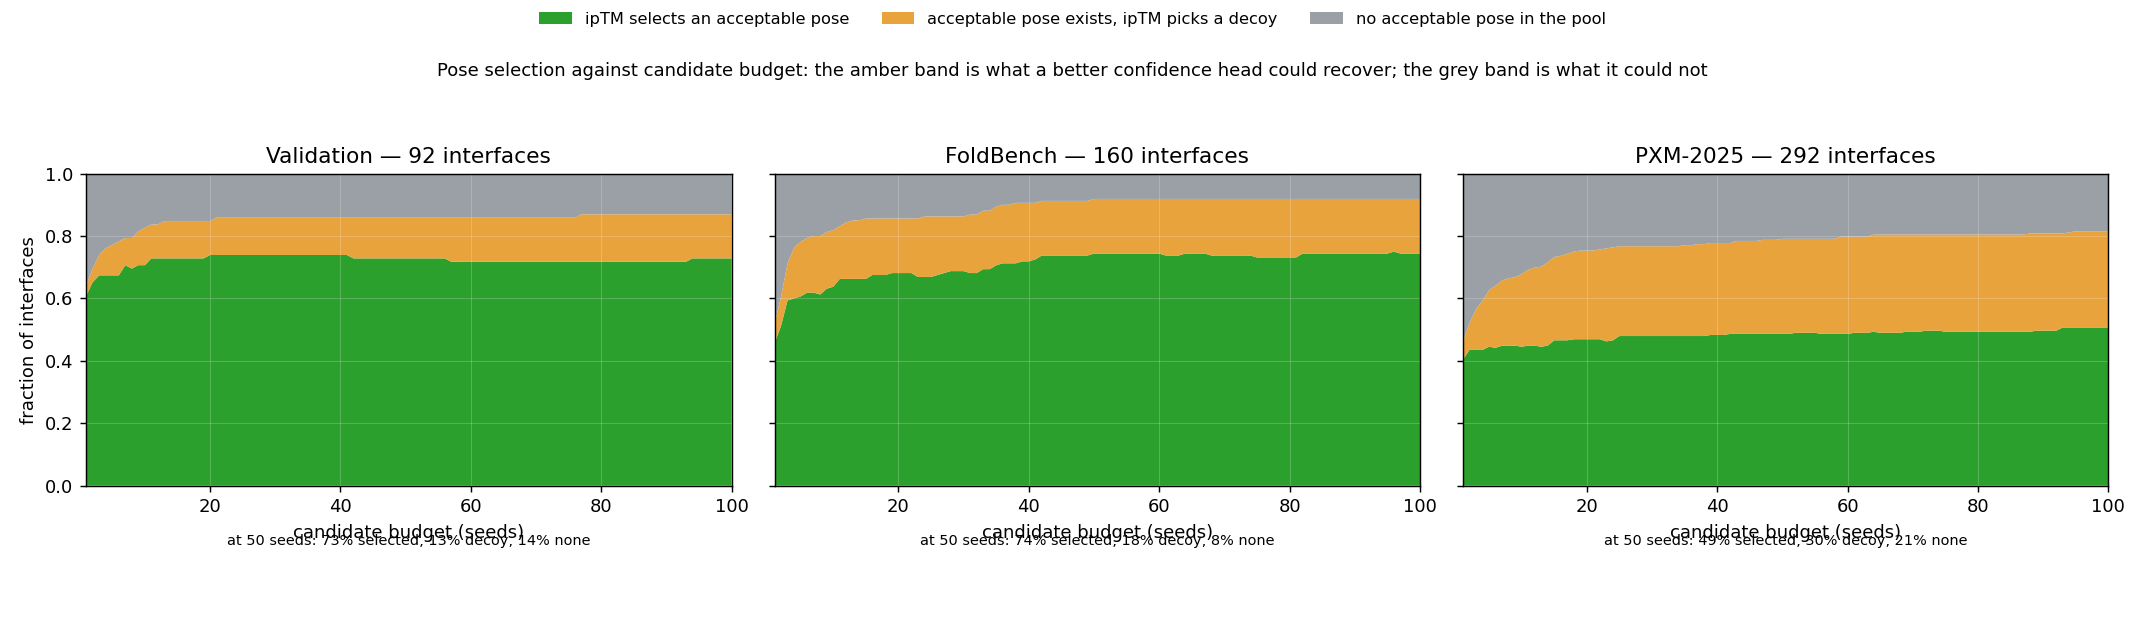
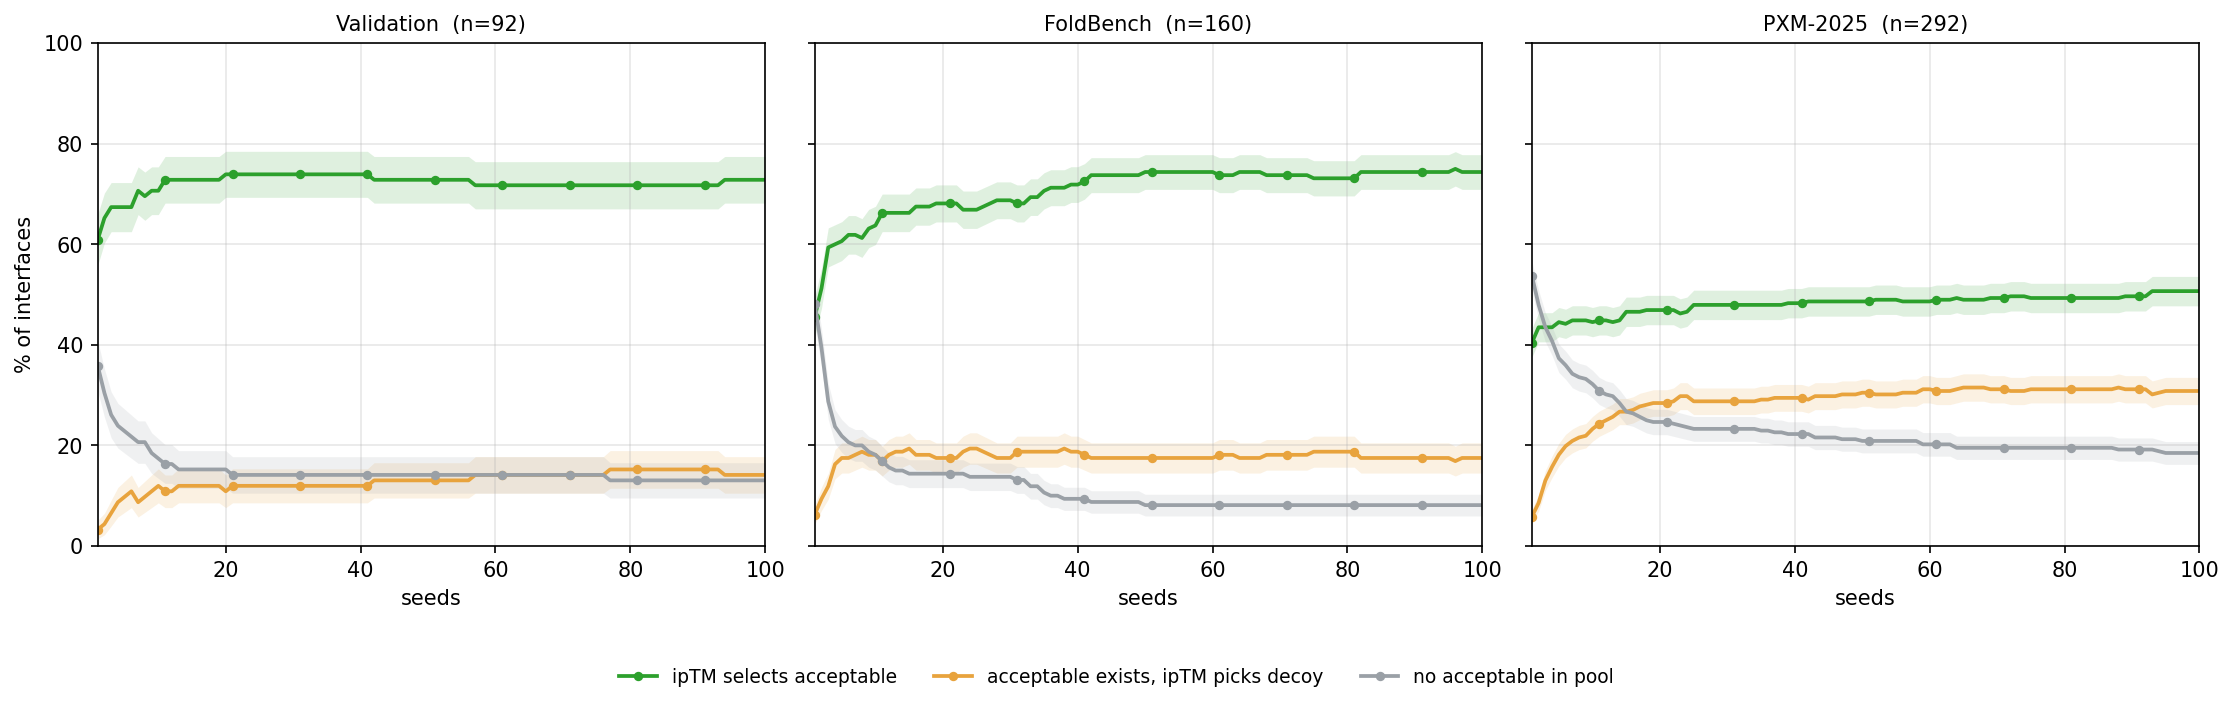
figures: three SEM-banded lines in the house style, not a stacked area
Redrawn to match archive/plot/plot_scaling_compare.py: "-o" lines, fill_between
at alpha 0.15, grid at alpha 0.3, percentages on the y axis, dpi 150 with
bbox_inches tight. The x axis says "seeds". One figure-level legend below the row
replaces three in-axes legends plus the per-panel annotation that was overlapping
the data, and there is no suptitle. The script now also prints the table, because
a figure is read off axes and a table is read exactly.

The band is the SEM of a proportion, sqrt(p(1-p)/n) over the interface count --
the uncertainty of a fraction of interfaces, not a spread over seeds. n is fixed
across the axis by construction, so a band narrows only as p approaches 0 or 1.

WHAT THE NUMBERS SAY, now that they are legible. At 50 seeds, % of interfaces:

  Validation  n=92   72.8+/-4.6 selected  13.0+/-3.5 decoy  14.1+/-3.6 none
  FoldBench   n=160  74.4+/-3.5 selected  17.5+/-3.0 decoy   8.1+/-2.2 none
  PXM-2025    n=292  48.6+/-2.9 selected  30.5+/-2.7 decoy  20.9+/-2.4 none

PXM-2025 carries 2.3x the recoverable headroom of the validation split and the
difference dwarfs either SEM, so a method tuned and judged only on validation is
measured where there is least to win.

And the finding the stacked area hid: THE SELECTED CURVE IS NOT MONOTONIC IN N
WHILE THE ORACLE IS. Validation runs 73.9 at N=25, 72.8 at 50, 71.7 at 75, 72.8
at 100; FoldBench 66.9 -> 74.4 -> 73.1 -> 74.4. Adding seeds can LOWER the
[…]

diff --git a/figures/selection_vs_budget.py b/figures/selection_vs_budget.py
@@ -52,8 +52,18 @@ BENCH = [
 # acceptable / decoy / no-acceptable. Green for what works, amber for what a better head could
 # recover, grey for what it could not.
 COLORS = ["#2ca02c", "#e8a33d", "#9aa0a6"]
-LABELS = ["ipTM selects an acceptable pose", "acceptable pose exists, ipTM picks a decoy",
-          "no acceptable pose in the pool"]
+LABELS = ["ipTM selects acceptable", "acceptable exists, ipTM picks decoy", "no acceptable in pool"]
+
+
+def sem(p, n):
+    """Standard error of a proportion over n interfaces: sqrt(p(1-p)/n).
+
+    The quantity on each curve is a fraction of interfaces, so its uncertainty is binomial in the
+    interface count -- not a spread over seeds. n is fixed across the axis by construction (only
+    interfaces reaching --max-budget are counted), so the band narrows only where p approaches 0
+    or 1, which is the honest behaviour: a category at 5% is better determined than one at 50%.
+    """
+    return (p * (1.0 - p) / n) ** 0.5 if n else 0.0
 
 
 def curves(path, ic, sc, smc, dc, qc, max_budget):
@@ -120,37 +130,57 @@ def main():
     ap.add_argument("--out", default="figures/selection_vs_budget.png")
     a = ap.parse_args()
 
-    fig, axes = plt.subplots(1, 3, figsize=(16.5, 4.8), sharey=True)
-    for ax, (name, rel, ic, sc, smc, dc, qc) in zip(axes, BENCH):
+    series = []
+    for name, rel, ic, sc, smc, dc, qc in BENCH:
         path = os.path.join(a.root, rel)
         if not os.path.exists(path):
-            ax.set_title(f"{name}\n(table absent)")
+            print(f"{name}: {path} absent, skipped")
             continue
-        n_if, xs, acc, dec, non = curves(path, ic, sc, smc, dc, qc, a.max_budget)
-        ax.stackplot(xs, acc, dec, non, colors=COLORS, labels=LABELS, edgecolor="none")
-        ax.set_title(f"{name} — {n_if} interfaces")
-        ax.set_xlabel("candidate budget (seeds)")
+        series.append((name,) + curves(path, ic, sc, smc, dc, qc, a.max_budget))
+
+    # The numbers, printed as well as drawn -- a figure is read off axes, a table is read exactly.
+    for name, n_if, xs, acc, dec, non in series:
+        print(f"\n{name}: {n_if} interfaces   (value % +/- SEM)")
+        print(f"{'N':>4}  {'acceptable':>16} {'decoy':>16} {'none':>16}   {'oracle':>7}")
+        for n in (1, 5, 10, 25, 50, 75, 100):
+            if n > len(xs):
+                continue
+            i = n - 1
+            print(f"{n:>4}  {acc[i]*100:>8.1f}+/-{sem(acc[i], n_if)*100:<5.1f} "
+                  f"{dec[i]*100:>8.1f}+/-{sem(dec[i], n_if)*100:<5.1f} "
+                  f"{non[i]*100:>8.1f}+/-{sem(non[i], n_if)*100:<5.1f}   "
+                  f"{(acc[i]+dec[i])*100:>6.1f}")
+
+    fig, axes = plt.subplots(1, 3, figsize=(15, 4.6), sharey=True)
+
+    def band(ax, xs, ys, n_if, color):
+        lo = [(y - sem(y, n_if)) * 100 for y in ys]
+        hi = [(y + sem(y, n_if)) * 100 for y in ys]
+        ax.fill_between(xs, lo, hi, color=color, alpha=0.15, linewidth=0)
+
+    for ax, (name, n_if, xs, acc, dec, non) in zip(axes, series):
+        for ys, c, lbl in zip((acc, dec, non), COLORS, LABELS):
+            # MARKERS EVERY 10 SEEDS, not on all 100: a marker per point turns a 100-wide axis
+            # into a solid band and hides the line it is meant to mark.
+            ax.plot(xs, [y * 100 for y in ys], "-o", color=c, label=lbl, lw=1.8, ms=3.5,
+                    markevery=10)
+            band(ax, xs, ys, n_if, c)
+        ax.set_title(f"{name}  (n={n_if})", fontsize=10)
+        ax.set_xlabel("seeds")
         ax.set_xlim(1, a.max_budget)
-        ax.set_ylim(0, 1)
-        ax.grid(alpha=0.2, color="white", lw=0.6)
-        # THE TWO NUMBERS WORTH READING OFF: the selection headroom at the free budget, and what
-        # is unreachable by selection at all.
-        i50 = min(len(xs), 50) - 1
-        ax.annotate(f"at 50 seeds: {acc[i50]*100:.0f}% selected, {dec[i50]*100:.0f}% decoy, "
-                    f"{non[i50]*100:.0f}% none",
-                    xy=(0.5, -0.19), xycoords="axes fraction", ha="center", fontsize=8)
-    axes[0].set_ylabel("fraction of interfaces")
+        ax.set_ylim(0, 100)
+        ax.grid(True, alpha=0.3)
+    axes[0].set_ylabel("% of interfaces")
+    # ONE LEGEND, BELOW THE PANELS. Three legends inside three axes was what overlapped the data;
+    # a figure-level legend under the row cannot collide with anything.
     h, l = axes[0].get_legend_handles_labels()
-    fig.legend(h, l, loc="upper center", ncol=3, fontsize=9, frameon=False,
-               bbox_to_anchor=(0.5, 1.005))
-    fig.suptitle("Pose selection against candidate budget: the amber band is what a better "
-                 "confidence head could recover; the grey band is what it could not",
-                 fontsize=10, y=0.90)
-    fig.tight_layout(rect=(0, 0.04, 1, 0.86))
+    fig.legend(h, l, loc="upper center", bbox_to_anchor=(0.5, 0.045), ncol=3, fontsize=9,
+               frameon=False)
+    fig.tight_layout(rect=(0, 0.07, 1, 1))
     tmp = a.out + ".tmp.png"
-    fig.savefig(tmp, dpi=130)
+    fig.savefig(tmp, dpi=150, bbox_inches="tight")
     os.replace(tmp, a.out)
-    print(f"wrote {a.out}")
+    print(f"\nwrote {a.out}")
 
 
 if __name__ == "__main__":

diff --git a/figures/README.md b/figures/README.md
@@ -21,20 +21,28 @@ The three categories partition the interfaces, and the split between the last tw
   headroom available to this project, and its size at the free 50-seed budget is the ceiling on
   any reranking method.
 
-Read at 50 seeds, the free budget:
+Read at 50 seeds, the free budget, as % of interfaces +/- SEM:
 
 | benchmark | interfaces | selected | decoy | none | oracle |
 |---|---|---|---|---|---|
-| Validation | 92 | 72.8% | 13.0% | 14.1% | 85.9% |
-| FoldBench | 160 | 74.4% | 17.5% | 8.1% | 91.9% |
-| PXM-2025 | 292 | 48.6% | 30.5% | 20.9% | 79.1% |
+| Validation | 92 | 72.8 ± 4.6 | 13.0 ± 3.5 | 14.1 ± 3.6 | 85.9 |
+| FoldBench | 160 | 74.4 ± 3.5 | 17.5 ± 3.0 | 8.1 ± 2.2 | 91.9 |
+| PXM-2025 | 292 | 48.6 ± 2.9 | 30.5 ± 2.7 | 20.9 ± 2.4 | 79.1 |
 
 **PXM-2025 is where the headroom is**: 30.5% of its interfaces have an acceptable pose that ipTM
-fails to pick, against 13.0% on Validation. A selection method evaluated only on the validation
-split is being measured where there is least to win.
+fails to pick, against 13.0% on Validation — and the gap is far larger than either SEM. A
+selection method evaluated only on the validation split is being measured where there is least to
+win.
 
-Both FoldBench and Validation are flat from 50 to 100 seeds in the selected band — the extra 50
-seeds add almost nothing ipTM can use, which is the quantitative form of the free-budget argument.
+**The `selected` curve is not monotonic in N, and the `oracle` is.** Validation runs 73.9 at N=25,
+72.8 at 50, 71.7 at 75, 72.8 at 100; FoldBench 66.9 → 74.4 → 73.1 → 74.4. Adding seeds can
+*lower* the fraction where ipTM selects an acceptable pose, because a new pose with higher ipTM and
+lower DockQ displaces the previous pick. Meanwhile the oracle only rises, so the decoy band widens
+with budget: 12.0 → 14.1 on Validation, 18.2 → 30.8 on PXM between N=5 and N=100.
+
+That is the figure's central claim. **More candidates reliably improve what is achievable and not
+what ipTM achieves**, and every bit of that growing gap is selection failure — exactly the quantity
+a better confidence head would convert.
 
 ## Method notes that matter
 
@@ -44,6 +52,9 @@ seeds add almost nothing ipTM can use, which is the quantitative form of the fre
 - **The pool at budget N is the first N seeds by sorted seed number**, every sample included. The
   benchmarks use different seed ranges — Validation 400000+, FoldBench a mix of 101–200, 501–510
   and 600000+, PXM its own — so N is a position, not a seed value.
+- **The shaded band is the SEM of a proportion**, sqrt(p(1-p)/n) over the interface count — the
+  uncertainty of a fraction of interfaces, not a spread over seeds. n is constant across the axis,
+  so a band narrows only as p approaches 0 or 1.
 - **The interface set is fixed across the axis.** Only interfaces with at least 100 seeds are
   counted, so the denominator does not change with N. Every interface of all three benchmarks
   clears 100, so nothing is dropped — but only after FoldBench's top-off was merged: 28 of its 160
